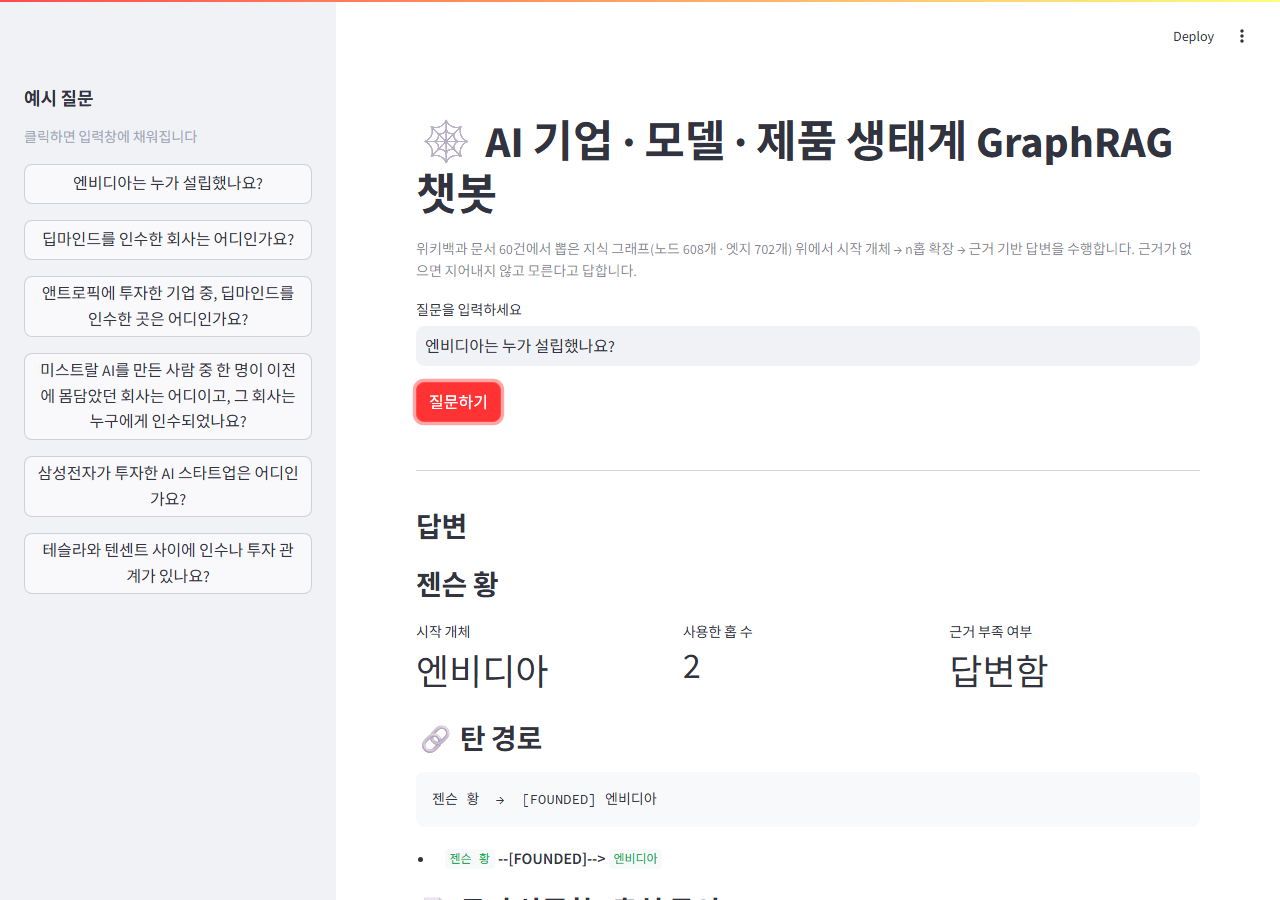
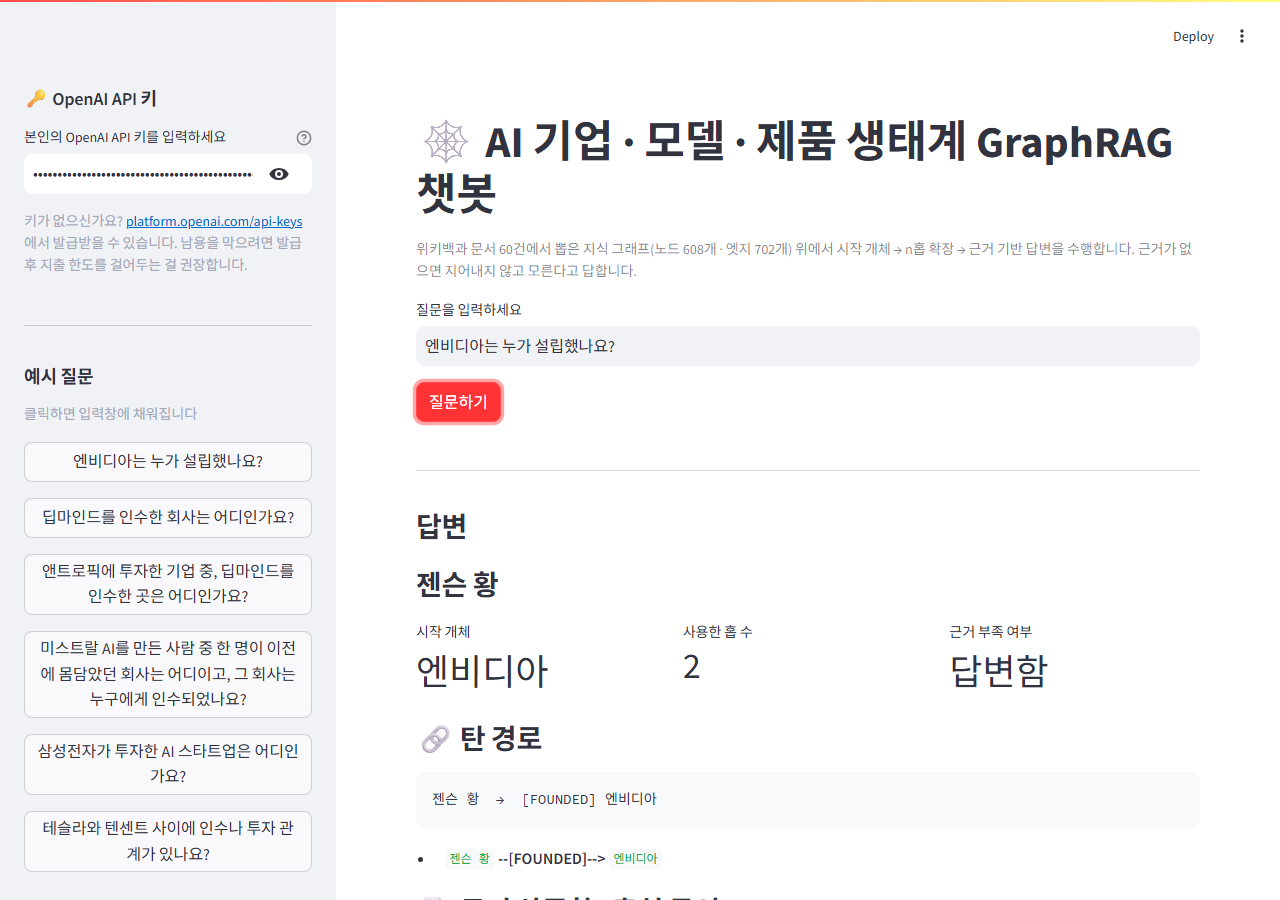
데모에 방문자별 OpenAI API 키 입력(BYOK) 추가
공용 배포 시 API 비용이 통제 안 되는 문제를 막기 위해, agent.py의 OpenAI
클라이언트를 지연 초기화하고 set_api_key()로 런타임에 주입하도록 바꿨다.
app.py에 키 입력창(비밀번호 마스킹, 세션 메모리에만 유지)을 추가하고,
빈 키/잘못된 키에 대한 사용자 친화적 에러 처리를 넣었다. README에 클라우드
배포 안내와 라이브 데모 링크 자리를 추가하고, 새 UI로 데모 캡처를 다시 떴다.

diff --git a/agent.py b/agent.py
@@ -20,7 +20,7 @@ from dotenv import load_dotenv
 from openai import OpenAI
 from pydantic import BaseModel
 
-load_dotenv(r"C:\Users\lis29\projects\keys.env")
+load_dotenv(r"C:\Users\lis29\projects\keys.env")  # 로컬 개발용. 없으면 조용히 넘어간다.
 
 ROOT = Path(__file__).resolve().parent
 CONFIG = json.loads((ROOT / "config.json").read_text(encoding="utf-8"))
@@ -34,7 +34,28 @@ MAX_HOPS = CONFIG["traversal"]["max_hops"]
 HUB_DEGREE_THRESHOLD = CONFIG["traversal"]["hub_degree_threshold"]
 HUB_FANOUT_CAP = CONFIG["traversal"]["hub_fanout_cap"]
 
-client = OpenAI()
+# 환경변수에 키가 있으면(로컬 개발) 바로 쓰고, 없으면(데모 배포) None으로 두고
+# 데모 화면에서 사용자가 입력한 키로 set_api_key()를 호출해 채운다.
+try:
+    client: Optional[OpenAI] = OpenAI()
+except Exception:
+    client = None
+
+
+def set_api_key(api_key: str) -> None:
+    """데모(app.py)에서 사용자가 입력한 키로 클라이언트를 새로 만든다.
+    이 프로세스 메모리에서만 쓰이고 디스크에 저장되지 않는다."""
+    global client
+    client = OpenAI(api_key=api_key)
+
+
+def _require_client() -> OpenAI:
+    if client is None:
+        raise RuntimeError(
+            "OpenAI API 키가 설정되지 않았습니다. "
+            "환경변수 OPENAI_API_KEY를 설정하거나 agent.set_api_key(키)를 먼저 호출하세요."
+        )
+    return client
 
 
 def load_graph() -> nx.MultiDiGraph:
@@ -87,7 +108,7 @@ def normalize_name(name: str) -> str:
 
 
 def extract_mentions(question: str) -> list[str]:
-    completion = client.beta.chat.completions.parse(
+    completion = _require_client().beta.chat.completions.parse(
         model=MODEL_NAME,
         temperature=0,
         messages=[
@@ -240,7 +261,7 @@ def answer_from_subgraph(state: AgentState) -> AgentState:
     if state.get("refused"):
         return state
     context = format_subgraph(state["subgraph_triples"])
-    completion = client.beta.chat.completions.parse(
+    completion = _require_client().beta.chat.completions.parse(
         model=MODEL_NAME,
         temperature=0,
         messages=[

diff --git a/app.py b/app.py
@@ -6,6 +6,7 @@
 """
 import streamlit as st
 
+import agent
 from agent import ask
 
 st.set_page_config(page_title="AI 생태계 GraphRAG 챗봇", page_icon="🕸", layout="wide")
@@ -15,6 +16,25 @@ st.caption(
     "위키백과 문서 60건에서 뽑은 지식 그래프(노드 608개 · 엣지 702개) 위에서 "
     "시작 개체 → n홉 확장 → 근거 기반 답변을 수행합니다. 근거가 없으면 지어내지 않고 모른다고 답합니다."
 )
+
+with st.sidebar:
+    st.subheader("🔑 OpenAI API 키")
+    api_key_input = st.text_input(
+        "본인의 OpenAI API 키를 입력하세요",
+        type="password",
+        key="api_key",
+        placeholder="sk-...",
+        help=(
+            "이 데모는 방문자 각자의 키로 동작합니다. 입력한 키는 저장되지 않고 "
+            "이 브라우저 세션 동안만 서버 메모리에서 쓰이며, 탭을 닫으면 사라집니다. "
+            "API 사용 요금은 키 소유자에게 청구됩니다."
+        ),
+    )
+    st.caption(
+        "키가 없으신가요? [platform.openai.com/api-keys](https://platform.openai.com/api-keys)에서 "
+        "발급받을 수 있습니다. 남용을 막으려면 발급 후 지출 한도를 걸어두는 걸 권장합니다."
+    )
+    st.divider()
 
 EXAMPLES = [
     "엔비디아는 누가 설립했나요?",
@@ -42,9 +62,16 @@ question = st.text_input(
 )
 run = st.button("질문하기", type="primary")
 
-if run and question.strip():
-    with st.spinner("시작 개체를 찾고, 그래프를 확장하는 중..."):
-        result = ask(question)
+if run and not api_key_input.strip():
+    st.error("먼저 왼쪽 사이드바에 본인의 OpenAI API 키를 입력해주세요.")
+elif run and question.strip():
+    agent.set_api_key(api_key_input.strip())
+    try:
+        with st.spinner("시작 개체를 찾고, 그래프를 확장하는 중..."):
+            result = ask(question)
+    except Exception as e:
+        st.error(f"API 호출 중 오류가 발생했습니다: {e}")
+        st.stop()
 
     st.divider()
     st.subheader("답변")

diff --git a/scripts/capture_screenshots.py b/scripts/capture_screenshots.py
@@ -1,14 +1,25 @@
-"""README용 데모 화면 캡처. streamlit run app.py 가 localhost:8501에서 떠 있어야 한다."""
+"""README용 데모 화면 캡처(개발자 전용, requirements.txt에는 없음).
+사전 준비: pip install playwright && playwright install chromium
+streamlit run app.py 가 localhost:8501에서 떠 있어야 하고, OPENAI_API_KEY 환경변수
+(또는 keys.env)가 설정되어 있어야 실제 답변 화면을 캡처할 수 있다."""
+import os
 import time
+
+from dotenv import load_dotenv
 from playwright.sync_api import sync_playwright
 
+load_dotenv(r"C:\Users\lis29\projects\keys.env")
+API_KEY = os.environ["OPENAI_API_KEY"]
 URL = "http://localhost:8501"
 
 with sync_playwright() as p:
     browser = p.chromium.launch()
     page = browser.new_page(viewport={"width": 1280, "height": 900})
     page.goto(URL)
-    page.wait_for_selector("input[type=text]", timeout=15000)
+    page.wait_for_selector("input[type=password]", timeout=15000)
+    time.sleep(1)
+    page.fill("input[type=password]", API_KEY)
+    page.keyboard.press("Tab")
     time.sleep(1)
 
     # 1) 엔비디아 질문 -> 답변 + 경로 + 근거

diff --git a/README.md b/README.md
@@ -12,7 +12,25 @@
                 끊기면 넓히고(2홉→3홉), 그래도 없으면 모른다고 말하기
 ```
 
-## 환경 준비
+## 🌐 라이브 데모
+
+**[여기서 바로 써보기 →](<STREAMLIT_CLOUD_URL_여기에>)**
+
+방문자 각자의 OpenAI API 키로 동작합니다. 화면 왼쪽에 본인의 키(`sk-...`)를 입력해야
+질문할 수 있고, 키는 서버에 저장되지 않으며 탭을 닫으면 그 세션의 키는 사라집니다.
+API 요금은 입력한 키의 소유자에게 청구되니, 사용 전 [OpenAI 대시보드](https://platform.openai.com/account/limits)에서
+지출 한도를 걸어두는 걸 권장합니다.
+
+> 위 링크가 아직 비어 있다면 아직 배포 전입니다 — 아래 "직접 배포하기" 참고.
+
+### 직접 배포하기 (Streamlit Community Cloud, 무료)
+
+1. [share.streamlit.io](https://share.streamlit.io)에서 GitHub 계정으로 로그인
+2. "New app" → 이 저장소(`ai-ecosystem-graphrag`) 선택 → main file을 `app.py`로 지정 → Deploy
+3. API 키는 여기서 입력하지 않습니다 — 방문자가 화면에서 직접 입력하는 구조라 Secrets 설정이 필요 없습니다.
+4. 배포되면 나온 URL을 위 "라이브 데모" 링크 자리에 채워 넣으면 됩니다.
+
+## 로컬 환경 준비
 
 ```bash
 python -m venv .venv
@@ -20,10 +38,12 @@ python -m venv .venv
 pip install -r requirements.txt
 ```
 
-OpenAI API 키가 필요합니다. 이 프로젝트는 `keys.env`를 별도 경로에서 읽습니다
-(레포에 키를 커밋하지 않기 위함). `build_graph.py`, `agent.py`, `evaluate.py` 상단의
-`load_dotenv(...)` 경로를 자신의 키 파일 경로로 바꾸거나, 프로젝트 루트에 `.env`를 만들고
-`OPENAI_API_KEY=...`를 넣은 뒤 `load_dotenv()`로 바꿔 쓰세요.
+`app.py`(데모)는 화면에서 API 키를 입력받으므로 별도 설정이 필요 없습니다.
+반면 `collect_corpus.py` / `build_graph.py` / `evaluate.py` / `agent.py`를 커맨드라인으로
+직접 실행할 때는 환경변수 `OPENAI_API_KEY`가 필요합니다. 이 프로젝트는 로컬 개발 편의를 위해
+`keys.env`를 별도 경로에서 읽도록 되어 있습니다(레포에 키를 커밋하지 않기 위함) — 각 파일
+상단의 `load_dotenv(...)` 경로를 자신의 키 파일 경로로 바꾸거나, 그냥 환경변수
+`OPENAI_API_KEY`를 직접 설정해도 됩니다(파일이 없으면 조용히 건너뜁니다).
 
 ## 실행 순서 (파이프라인 전체)
 
@@ -52,7 +72,8 @@ streamlit run app.py
 ![데모 화면 - 답변과 경로](docs/screenshot_answer.png)
 ![데모 화면 - 거부 사례](docs/screenshot_refuse.png)
 
-왼쪽 사이드바의 예시 질문을 클릭하면 입력창에 채워집니다. "질문하기"를 누르면:
+왼쪽 사이드바에 본인의 OpenAI API 키를 넣고, 예시 질문을 클릭하면 입력창에 채워집니다.
+"질문하기"를 누르면:
 - **답변**: 근거로 조회된 삼중항만으로 만든 답
 - **시작 개체 / 사용한 홉 수 / 근거 부족 여부**: 탐색이 어떻게 이뤄졌는지 요약
 - **탄 경로**: 실제로 탄 관계 사슬 (개체 --[관계]--> 개체)

diff --git a/REPORT.md b/REPORT.md
@@ -152,6 +152,11 @@ path_used · evidence_used · refused · refusal_reason` 필드로 구성된다
   어느 문장에서 나왔는지 클릭 없이 바로 확인할 수 있게 했다.
 - **조회된 서브그래프 전체를 접이식으로 노출**: 최종 답변에 안 쓰인 나머지 근거도 투명하게
   볼 수 있게 남겨뒀다(검증·디버깅용).
+- **API 키를 방문자가 직접 입력하게 함(BYOK)**: 처음엔 Streamlit Cloud에 공개 배포해 링크로
+  피어리뷰를 받으려 했는데, 공용 키를 서버에 심으면 링크를 아는 누구나 내 API 비용을
+  소모시킬 수 있다는 문제가 있었다. `agent.py`의 OpenAI 클라이언트를 모듈 임포트 시점에
+  고정하지 않고 `set_api_key()`로 나중에 주입할 수 있게 바꿔서, 방문자가 화면에 자기 키를
+  넣어야만 질문할 수 있게 했다 — 키는 세션 메모리에서만 쓰이고 저장되지 않는다.
 
 거부 사례(예: "삼성전자가 투자한 AI 스타트업은?")도 같은 화면에서 "거부됨" 배지와 거부
 사유를 그대로 보여준다.
